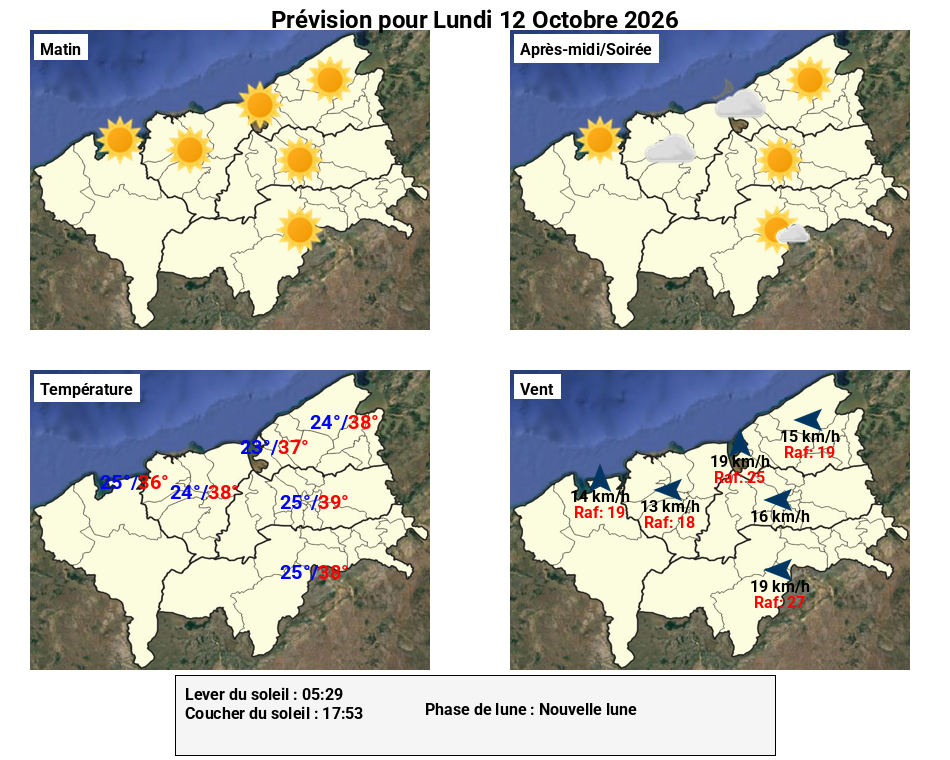
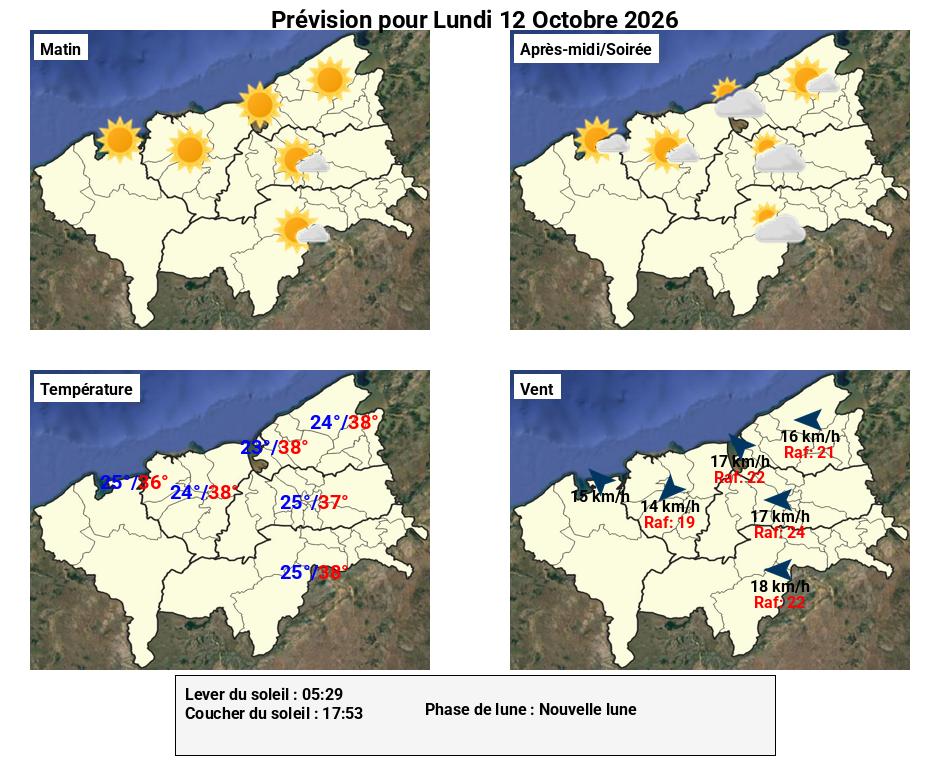
Daily forecast sync: Sun Oct 11 02:20:51 UTC 2026

diff --git a/assets/js/script.js b/assets/js/script.js
@@ -65,18 +65,18 @@ ANTICYCLONE 1026 CENTRE PAR 32S/39E.
 
 
     const templates = [
-    `La matinée s'annonce ensoleillée à peu nuageuse sur l'ensemble de la région, devenant plus nuageuse l'après-midi avec des averses attendues sur Mitsinjo, Marovoay, AmbatoBoeny et MahajangaII.
-**Vents** : Vents faibles à modérés de secteur Sud (10 à 20 km/h), avec des rafales pouvant atteindre 24 km/h à MahajangaI.
-**Températures minimales** : entre 25 et 26 °C
-**Températures maximales** : entre 33 et 39 °C`,
-    `Le matin sera ensoleillé sur l'ensemble de la région, tandis que l'après-midi sera marqué par un temps peu nuageux sur la majeure partie du Boeny, excepté à Mitsinjo (Ouest) et Marovoay (Intérieur) où des averses sont prévues.
-**Vents** : Vents faibles à modérés de secteur Est à Sud-Est, oscillant entre 9 et 18 km/h. Des rafales atteignant 24 km/h sont attendues à MahajangaI.
-**Températures minimales** : entre 24 et 25 °C
-**Températures maximales** : entre 35 et 38 °C`,
-    `Temps ensoleillé sur la majorité de la région Boeny, particulièrement à Soalala, Marovoay et MahajangaII. L'après-midi verra l'apparition de nuages à MahajangaI et un ciel couvert à Mitsinjo.
-**Vents** : Vents modérés de secteur Est à Sud-Est, avec des vitesses moyennes comprises entre 13 et 19 km/h et des rafales atteignant 27 km/h à AmbatoBoeny.
+    `Temps ensoleillé le matin sur l'ensemble de la région, devenant peu nuageux l'après-midi, excepté à Marovoay où des averses de pluie sont attendues.
+**Vents** : Vents faibles à modérés, de secteur variant du Sud-Ouest à l'Est, avec des vitesses entre 9 et 21 km/h. Des rafales jusqu'à 26 km/h sont prévues à Mahajanga I.
+**Températures minimales** : entre 25 et 27 °C
+**Températures maximales** : entre 34 et 38 °C`,
+    `Temps globalement ensoleillé le matin sur la région Boeny, le ciel devenant peu nuageux sur l'Ouest (Soalala, Mitsinjo) et l'Est (MahajangaII) l'après-midi, et partiellement nuageux sur les zones intérieures (Marovoay, AmbatoBoeny) et MahajangaI.
+**Vents** : Vents modérés de secteur Est à Sud-Est, vitesses moyennes entre 14 et 18 km/h, et des rafales atteignant 24 km/h à Marovoay.
 **Températures minimales** : entre 23 et 25 °C
-**Températures maximales** : entre 36 et 39 °C`
+**Températures maximales** : entre 36 et 38 °C`,
+    `Temps ensoleillé le matin, devenant partiellement nuageux l'après-midi sur la majeure partie de la région, avec des éclaircies plus durables à Soalala et MahajangaII.
+**Vents** : Vents modérés de secteur SE à ESE, soufflant entre 12 et 20 km/h, avec des rafales atteignant 26 km/h localement (MahajangaI, Marovoay).
+**Températures minimales** : entre 23 et 24 °C
+**Températures maximales** : entre 36 et 38 °C`
 ];
 
 
